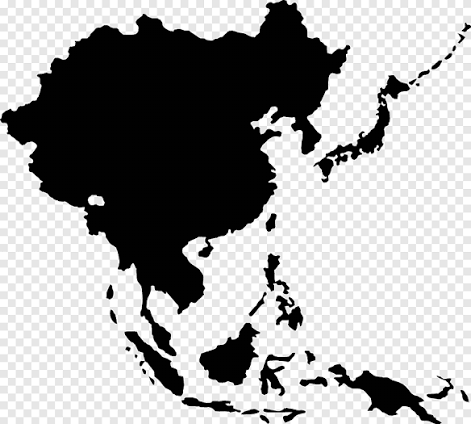
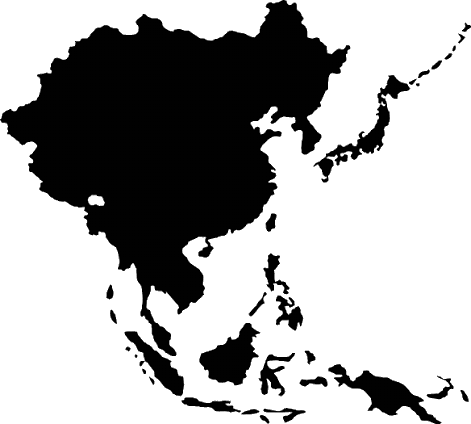
Clean pod silhouettes: transparent BG, no watermarks
All 5 images now have transparent backgrounds instead of white fills.
MENA cropped 40px off the bottom to strip the Shutterstock watermark.
LatAm and MENA converted to PNG (were JPG and WebP).

Changed region(s): [[0.0, 0.0, 1.0, 1.0], [0.0, 0.0, 0.5648, 0.2759], [0.1783, 0.4599, 0.2378, 0.4906]]

diff --git a/index.html b/index.html
@@ -638,14 +638,14 @@
         <li class="pod-row">
           <div class="pod-num">03</div>
           <div class="pod-map">
-            <img src="images/latin-america.jpg" alt="Latin America silhouette" loading="lazy">
+            <img src="images/latin-america.png" alt="Latin America silhouette" loading="lazy">
           </div>
           <h3 class="pod-region-name">Latin America</h3>
         </li>
         <li class="pod-row">
           <div class="pod-num">04</div>
           <div class="pod-map">
-            <img src="images/mena-africa.webp" alt="MENA and Africa silhouette" loading="lazy">
+            <img src="images/mena-africa.png" alt="MENA and Africa silhouette" loading="lazy">
           </div>
           <h3 class="pod-region-name">MENA + Africa</h3>
         </li>
